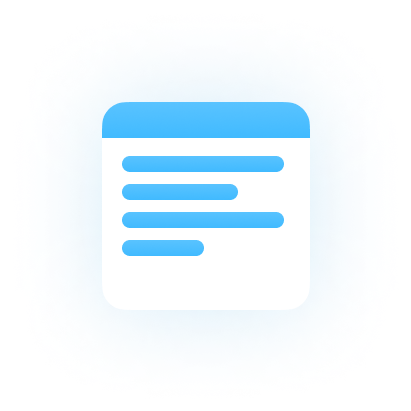
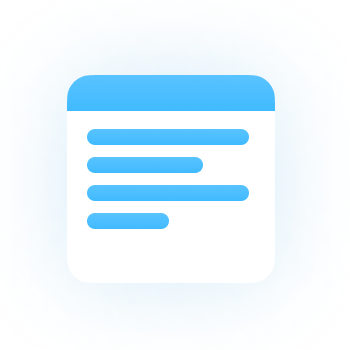
feat(layout): update main page layout

Changed region(s): [[0.2286, 0.3714, 0.7143, 0.6571], [0.1714, 0.2, 0.8, 0.3429], [0.5714, 0.4571, 0.6, 0.4857]]

diff --git a/src/pages/Index.vue b/src/pages/Index.vue
@@ -61,7 +61,7 @@ const assetsUrl = new URL('@/assets', import.meta.url).href;
     <!--TODO: расположить верстку по макету -->
     <section class="content-about">
       <div class="content-about-left">
-        <img src="@/assets/card-icon-1.png" width="314" alt="group of people" class="about-image">
+        <div class="back-holder group-of-people"></div>
         <div class="content-about-bold mt-5">Все наши преподаватели — практикующие разработчики</div>
         <div class="content-about-regular mt-3">Они обладают актуальными знаниями и опытом работы в индустрии. Это
           позволяет студентам получить навыки из первых рук и применять их на практике.
@@ -70,12 +70,12 @@ const assetsUrl = new URL('@/assets', import.meta.url).href;
       <div class="content-about-right">
         <div class="content-about-right-top">
           <div class="content-about-right-top-left">
-            <img src="@/assets/card-icon-2.png" width="180" alt="tick image" class="about-image">
+            <div class="back-holder checkbox-icon"></div>
             <div class="content-about-bold">В курсах нет лишней информации</div>
             <div class="content-about-regular mt-3">Обучение строится на основе практических заданий и проектов</div>
           </div>
           <div class="content-about-right-top-right">
-            <img src="@/assets/card-icon-3.png" width="180" alt="dots and heart like in messenger" class="about-image">
+            <div class="back-holder socials-icon"></div>
             <div class="content-about-bold">Вас сопровождает команда поддержки</div>
             <div class="content-about-regular mt-3">Готовая оказать помощь и ответить на ваши вопросы в любое время
             </div>
@@ -83,11 +83,13 @@ const assetsUrl = new URL('@/assets', import.meta.url).href;
         </div>
 
         <div class="content-about-right-bottom">
-          <img src="@/assets/card-icon-4.png" width="180" alt="blue lines in document like code lines"
-               class="about-image-left float-left">
-          <div class="content-about-bold">На курсах <span class="text-summer-sky">много практики</span></div>
-          <div class="content-about-regular mt-3">Это позволяет студентам не только усвоить знания, но и непосредственно
-            применить их в реальных проектах, углубляя свое понимание материала
+          <div class="back-holder calendar-icon"></div>
+          <div class="content-about-bottom">
+            <div class="content-about-bold">На курсах <span class="text-summer-sky">много практики</span></div>
+            <div class="content-about-regular mt-3">Это позволяет студентам не только усвоить знания, но и
+              непосредственно
+              применить их в реальных проектах, углубляя свое понимание материала
+            </div>
           </div>
         </div>
       </div>
@@ -109,6 +111,46 @@ const assetsUrl = new URL('@/assets', import.meta.url).href;
 </template>
 
 <style scoped>
+
+.back-holder {
+  background-position: center;
+  background-repeat: no-repeat;
+  background-size: 100%;
+}
+
+.back-holder.group-of-people {
+  width: 314px;
+  height: 158px;
+  background-repeat: no-repeat;
+  background-size: 100%;
+  background-image: url("@/assets/card-icon-1.png");
+}
+
+.back-holder.checkbox-icon {
+  background-position: -5px center;
+  width: 180px;
+  height: 164px;
+  background-repeat: no-repeat;
+  background-size: 100%;
+  background-image: url("@/assets/card-icon-2.png");
+}
+
+.back-holder.socials-icon {
+  width: 180px;
+  height: 164px;
+  background-repeat: no-repeat;
+  background-size: 100%;
+  background-image: url("@/assets/card-icon-3.png");
+}
+
+.back-holder.calendar-icon {
+  flex-basis: 160px;
+  flex-shrink: 0;
+  height: 160px;
+  background-repeat: no-repeat;
+  background-size: 100%;
+  background-image: url("@/assets/card-icon-4.png");
+}
 
 /* logo */
 .logo {
@@ -249,7 +291,7 @@ const assetsUrl = new URL('@/assets', import.meta.url).href;
 .content-about {
   display: flex;
   flex-flow: wrap;
-  gap: 20px;
+  column-gap: 20px;
 }
 
 .about-image {
@@ -275,7 +317,8 @@ const assetsUrl = new URL('@/assets', import.meta.url).href;
 }
 
 .content-about-left {
-  max-width: 30%;
+  flex-basis: 30%;
+  flex-grow: 1;
   min-width: 344px;
   background: linear-gradient(180deg, #FFFFFF 0%, #EEF3F3 100%);
   border-radius: 16px;
@@ -283,7 +326,8 @@ const assetsUrl = new URL('@/assets', import.meta.url).href;
 }
 
 .content-about-right {
-  max-width: calc(70% - 21px);
+  flex-basis: calc(70% - 21px);
+  flex-grow: 1;
   min-width: 344px;
   display: flex;
   flex-flow: wrap;
@@ -297,7 +341,8 @@ const assetsUrl = new URL('@/assets', import.meta.url).href;
 }
 
 .content-about-right-top-left {
-  max-width: 50%;
+  flex-basis: 50%;
+  flex-grow: 1;
   min-width: 344px;
   background: linear-gradient(180deg, #FFFFFF 0%, #EEF3F3 100%);
   border-radius: 16px;
@@ -305,7 +350,8 @@ const assetsUrl = new URL('@/assets', import.meta.url).href;
 }
 
 .content-about-right-top-right {
-  max-width: calc(50% - 21px);
+  flex-basis: calc(50% - 21px);
+  flex-grow: 1;
   min-width: 344px;
   background: linear-gradient(180deg, #FFFFFF 0%, #EEF3F3 100%);
   border-radius: 16px;
@@ -313,11 +359,19 @@ const assetsUrl = new URL('@/assets', import.meta.url).href;
 }
 
 .content-about-right-bottom {
-  max-width: 100%;
+  display: flex;
+  flex-wrap: wrap;
+  align-items: center;
+  flex-basis: 100%;
+  flex-grow: 1;
   min-width: 344px;
   background: linear-gradient(180deg, #FFFFFF 0%, #EEF3F3 100%);
   border-radius: 16px;
   padding: 10px 20px 10px 20px;
+}
+
+.content-about-bottom {
+  flex-basis: 600px;
 }
 
 /* feedback */
